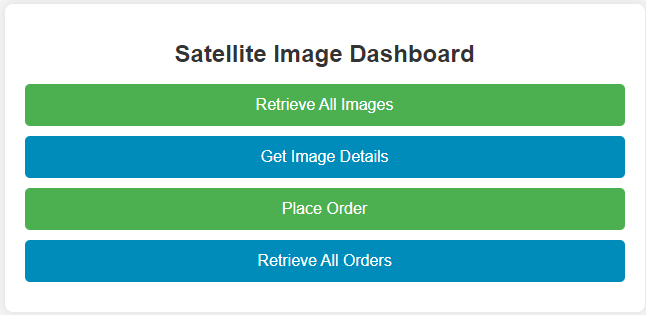
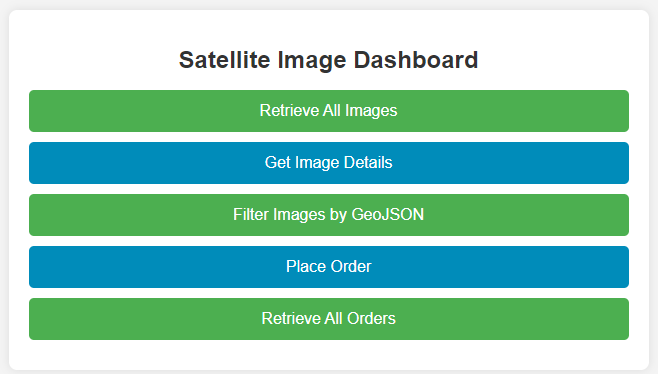
Added filter for intersection

diff --git a/src/services/satelliteImagesService.ts b/src/services/satelliteImagesService.ts
@@ -1,4 +1,5 @@
 import db from '../db/db';
+import wellknown, { GeoJSONGeometry } from "wellknown"; // Convert GeoJSON to WKT
 import type { SatelliteImageFilters as ImageFilters } from 'models/SatelliteImagesFilters.types';
 
 // Fetch all satellite images with optional filters
@@ -19,8 +20,7 @@ export const getSatelliteImages = async (filters: ImageFilters) => {
         image_bands, 
         ST_AsGeoJSON(geometry)::json AS geometry
     FROM satellite_images
-    WHERE 1=1
-`;
+    WHERE 1=1`;
 
   const values: any[] = [];
 
@@ -35,11 +35,6 @@ export const getSatelliteImages = async (filters: ImageFilters) => {
     values.push(filters.cloudCoverage);
   }
 
-  if (filters.geoJSON) {
-    query += ` AND ST_Intersects(geometry, ST_GeomFromGeoText(${values.length + 1}))`;
-    values.push(JSON.stringify(filters.geoJSON));
-  }
-
   const result = await db.query(query, values);
   if(result.rowCount == 0) {
     return 0;
@@ -47,6 +42,38 @@ export const getSatelliteImages = async (filters: ImageFilters) => {
 
   return result.rows;
 };
+
+// Fetch all satellite images with location filter
+export const getFilteredSatelliteImages = async (geoJSON : any) => {
+
+  const geoJSONString = JSON.stringify(geoJSON);
+
+  let query = `
+    SELECT 
+        catalog_id, 
+        image_name, 
+        acquisition_start_date, 
+        acquisition_end_date, 
+        cloud_coverage, 
+        scan_direction, 
+        satellite_elevation, 
+        resolution, 
+        sensor, 
+        image_bands, 
+        ST_AsGeoJSON(geometry)::json AS geometry
+    FROM satellite_images
+    WHERE ST_Intersects(geometry, ST_GeomFromGeoJSON($1)::geometry)
+  `;
+
+  const result = await db.query(query, [geoJSONString]);
+
+  if (result.rowCount === 0) {
+    return [];
+  }
+
+  return result;
+};
+
 
 // Fetch a single image by ID
 export const getImageById = async (catalogId: string) => {

diff --git a/src/controllers/satelliteImagesController.ts b/src/controllers/satelliteImagesController.ts
@@ -1,11 +1,43 @@
 import { Request, Response, NextFunction } from 'express';
-import { getSatelliteImages, getImageById } from '../services/satelliteImagesService';
+import { getFilteredSatelliteImages, getSatelliteImages, getImageById } from '../services/satelliteImagesService';
 import { SatelliteImageFilters } from '../models/SatelliteImagesFilters.types';
 
 export const getAllImages = async (req: Request, res: Response, next: NextFunction) => {
   try {
     const filters: SatelliteImageFilters = req.query;
     const images = await getSatelliteImages(filters);
+    res.json(images);
+  } catch (error) {
+    next(error);
+  }
+};
+
+export const getFilteredImages = async (req: Request, res: Response, next: NextFunction): Promise<void> => {
+  try {
+
+    const geoJSON = req.query.geoJSON as string; // Extract from query
+    
+    // Quick validation
+    if (!geoJSON) {
+      res.status(400).json({ error: "GeoJSON filter is required" });
+      return;
+    }
+     // Parse with input validation
+     let parsedGeoJSON;
+     try {
+       parsedGeoJSON = JSON.parse(decodeURIComponent(geoJSON));
+     } catch (error) {
+       res.status(400).json({ error: "Invalid GeoJSON format" });
+       return;
+     }
+
+    const images = await getFilteredSatelliteImages(parsedGeoJSON);
+    
+    if (!images) {
+      res.status(404).json({ error: "No images found for the given filter" });
+      return;
+    }
+
     res.json(images);
   } catch (error) {
     next(error);

diff --git a/src/App.tsx b/src/App.tsx
@@ -47,11 +47,30 @@ export default function App() {
       .catch((error) => console.error("Error retrieving orders:", error));
   };
 
+  const handleFilterImagesByGeometry = () => {
+    const geoJSON = prompt("Enter geoJSON to filter images:");
+    if (!geoJSON) return;
+
+    // Encode the GeoJSON as a query parameter
+    const encodedGeoJSON = encodeURIComponent(geoJSON);
+
+    fetch(`/api/images/filter?geoJSON=${encodedGeoJSON}`, {
+      method: "GET", 
+      headers: {
+        "Content-Type": "application/json"
+      }
+    })
+      .then((response) => response.json())
+      .then((data) => console.log("Filtered Images:", data))
+      .catch((error) => console.error("Error fetching images:", error));
+  }
+
   return (
     <div className="container">
       <h1>Satellite Image Dashboard</h1>
       <button onClick={handleRetrieveImages}>Retrieve All Images</button>
       <button onClick={handleGetImageDetails}>Get Image Details</button>
+      <button onClick={handleFilterImagesByGeometry}>Filter Images by GeoJSON</button>
       <button onClick={handlePlaceOrder}>Place Order</button>
       <button onClick={handleRetrieveOrders}>Retrieve All Orders</button>
     </div>

diff --git a/src/index.ts b/src/index.ts
@@ -14,7 +14,7 @@ const PORT = process.env.PORT || 3002;
 
 // Middleware
 app.use(cors()); // Enable CORS for cross-origin requests
-app.use(express.json()); // Parse JSON request bodies
+app.use(express.json()); // Parse JSON request bodies for POST orders and for Get filtered images
 
 // Test route
 app.get('/', (req, res) => {
@@ -24,6 +24,7 @@ app.get('/', (req, res) => {
 // Register API routes
 app.use('/api', imageRoutes);
 app.use('/api', orderRoutes);
+
 
 // Error handling middleware
 app.use((err: any, req: express.Request, res: express.Response, next: express.NextFunction) => {

diff --git a/src/routing/satelliteImagesRoutes.ts b/src/routing/satelliteImagesRoutes.ts
@@ -1,9 +1,10 @@
 import express from 'express';
-import { getAllImages, getImageDetails } from '../controllers/satelliteImagesController';
+import { getAllImages, getFilteredImages, getImageDetails } from '../controllers/satelliteImagesController';
 
 const router = express.Router();
 
 router.get('/images', getAllImages);
+router.get('/images/filter', getFilteredImages);
 router.get('/images/:catalogId', getImageDetails);
 
 export default router;

diff --git a/README.md b/README.md
@@ -4,12 +4,7 @@
 The **Orbital Edge Imaging API** is a RESTful API for searching, ordering, and managing satellite images. This API is built using **Node.js, Express, PostgreSQL (PostGIS), and TypeScript**. Technical Requirements:
 - Install Docker, Typescript, Postgres (and add it to env path to more easily use `plql` commands), Docker version has Postgis but please make sure you have it installed when running locally with: `psql -U postgres -d postgres` - you can also run directly on local db - `SELECT * FROM pg_available_extensions WHERE name = 'postgis';`
 
-### Product Decisions:
-- Each order corresponds only to ONE satellite image, as per the one-to-one relation.
-![RelationalDatabaseModel](docs/dbmodel.png)
-- Frontend is very minimal as time for implementation was limited and focused on implementing the infrastructure. It will not be possible to view the website as I did not deploy it. Both of these are due to the same reasoning: one weekend to make this work locally and containerize and the communication within containers.
-
-#### Features
+### Features
 - **Retrieve all available satellite images**
 To get all images, we use `api/images` route, it has available filters for: acquisition date, cloud coverage, and geometry, which verifies if the locations intersect. To use these filters use this route: `api/images?cloudCoverage=&{val}` and/or `api/images?acquisitionDate=&{val}`.
 
@@ -23,7 +18,7 @@ To make an order, the user simply inputs the `catalog Id` from UI and their name
 To retrieve all listed orders use GET `api/orders`,  you can set a limit of orders you want to retrieve, which basically is a starting point for pagination by `api/orders?limit=&{val}`
 
 
-## Comprehensive Setup
+### Comprehensive Setup
 
 After cloning the repository locally and making sure you have `yarn` installed:
 1. Run `yarn install` - this installs all necessary dependencies for this project, for the dependency list check ./package.json
@@ -34,7 +29,7 @@ After cloning the repository locally and making sure you have `yarn` installed:
 4. Run `docker-compose up -d --build` - builds and runs the containers. You can run `docker ps` to check build status, but after running, docker desktop should look like:
 ![Docker](docs/docker.png)
 
-### Populating the database in Docker
+#### Populating the database in Docker
 
 While the containers are running:
 1. Open the folder where database configuration (`.sql`) files are + Open Terminal;
@@ -43,10 +38,24 @@ While the containers are running:
 4. Populate Satellite Images database: `docker exec -it oei-db psql -U postgres -d postgres -f insert-images.sql`.
 5. (_OPTIONAL_) Enter database through terminal: `docker exec -it oei-db psql -U postgres -d postgres` and check that data is being fetched by performing a simple select: `SELECT * FROM satellite_images;`.
 
-### Running locally considerations
+#### Running locally considerations
 1. Change .env DB_HOST to 'localhost' instead of 'db'.
 - You have to create the database locally (this can be automated in the future, with a script).
 2. `yarn install && yarn dev`
 
+
+## Product Decisions:
+- Each order corresponds only to ONE satellite image, as per the one-to-one relation.
+![RelationalDatabaseModel](docs/dbmodel.png)
+- Frontend is very minimal as time for implementation was limited and focused on implementing the infrastructure. It will not be possible to view the website as I did not deploy it. Both of these are due to the same reasoning: one weekend to make this work locally and containerize and the communication within containers.
+
+## Component Diagram
+- Client (React Frontend): Sends API requests to the backend.
+- Router: Maps requests to controllers.
+- Controllers: Process API requests, validate data, and call the service layer.
+- Services: Contain the business logic and interact with the database.
+- Database (PostgreSQL with PostGIS): Stores satellite images and orders.
+![Components Diagram](docs/components.png)
+
+#### Proof that OEI has a very pretty dashboard
 ![Dashboard](docs/dashboard.png)
-Proof that OEI has a very pretty dashboard
